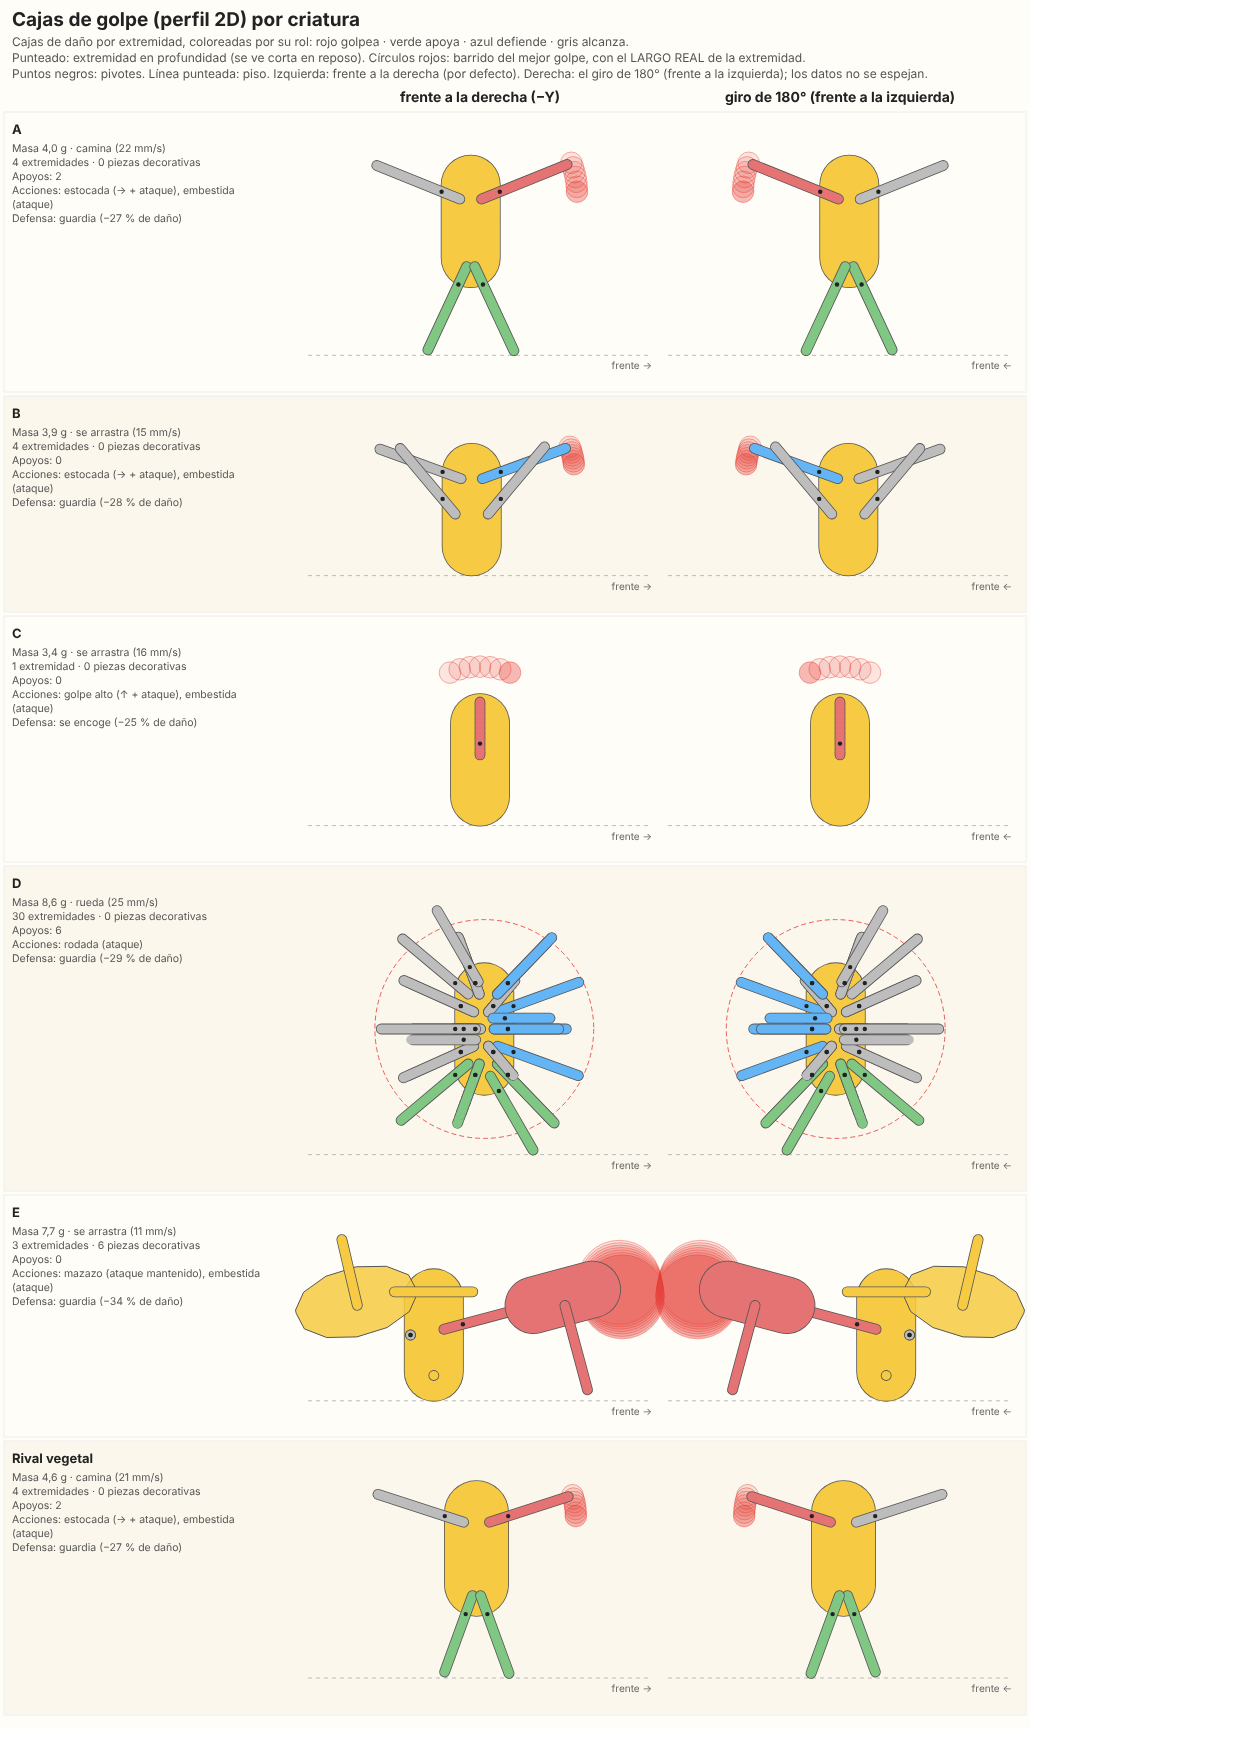
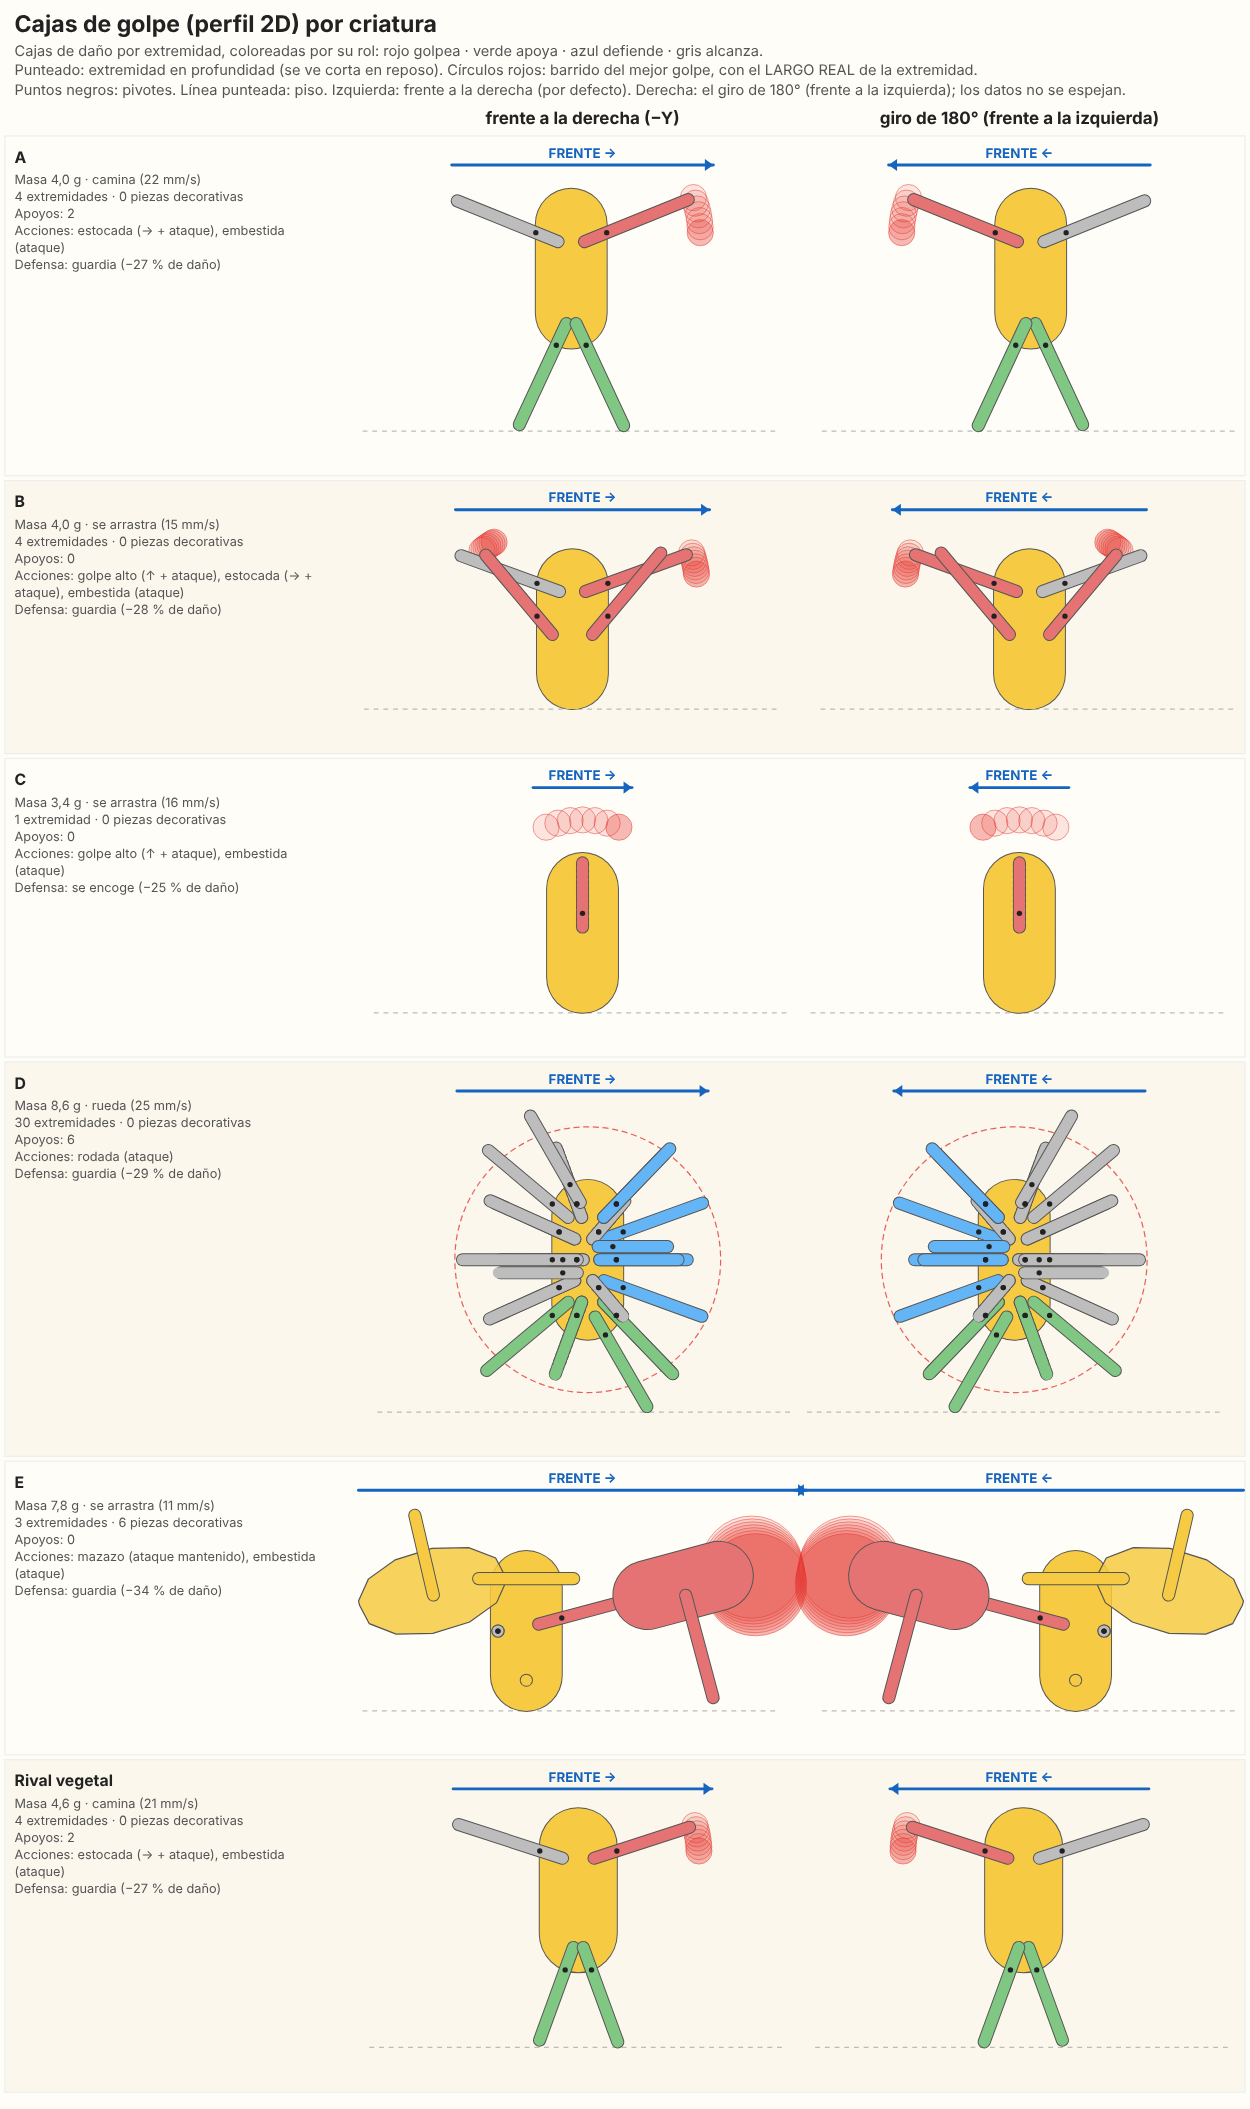
creature: (a) el apiñamiento del golpe solo cuenta a las vecinas del mismo tipo de golpe; tests de B, D y P; ESTADO.md
Claude-Session: https://claude.ai/code/session_01JQZZp3rqvYTJjdGanzx1ux

diff --git a/src/creature/analyze/limbs.ts b/src/creature/analyze/limbs.ts
@@ -3,17 +3,22 @@ import { add2, rot2, sub2 } from '../math/vec';
 import { toProfile } from '../math/basis';
 import { overlap2D } from '../math/shapes2d';
 import type { Caps, Limb, LimbDraft, Role, V2 } from '../types';
+import { strikeKindOf } from './actions';
 import type { Ctx } from './context';
 
 const ROLE_ORDER: Role[] = ['strike', 'support', 'push', 'defend'];
 
-/** Cuántas otras extremidades (no su hermana) tiene pegadas: pivote cerca y apuntando parecido. */
-function crowdOf(d: LimbDraft, all: LimbDraft[], ctx: Ctx): number {
+/**
+ * Cuántas otras extremidades (no su hermana) tiene pegadas: pivote cerca y apuntando parecido. Con `sameKind`, solo cuentan las que
+ * darían el mismo tipo de golpe (palitos que apuntan a distinto lado no se estorban al golpear).
+ */
+function crowdOf(d: LimbDraft, all: LimbDraft[], ctx: Ctx, sameKind?: (o: LimbDraft) => boolean): number {
   const { crowdRadius, crowdAngleDeg } = ctx.cfg.mobility;
   const axis = norm(sub(d.tip, d.pivot));
   let n = 0;
   for (const o of all) {
     if (o === d || o.id === d.pairedWith) continue;
+    if (sameKind && !sameKind(o)) continue;
     if (dist(o.pivot, d.pivot) > crowdRadius) continue;
     const c = clamp(dot(axis, norm(sub(o.tip, o.pivot))), -1, 1);
     if (deg(Math.acos(c)) < crowdAngleDeg) n++;
@@ -30,6 +35,17 @@ export function completeLimbs(ctx: Ctx, drafts: LimbDraft[]): Limb[] {
   const g = cfg.locomotion.gravity;
   const comX = ctx.mass.comProfile[0];
 
+  // Tipo de golpe de cada extremidad por su dirección (sin mirar la capacidad): para que el apiñamiento solo cuente a las del mismo tipo.
+  const kindOf = new Map<LimbDraft, ReturnType<typeof strikeKindOf>>();
+  for (const d of drafts) {
+    const v = sub(d.tip, d.pivot);
+    const l3 = Math.max(len(v), 1e-9);
+    const x = dot(v, basis.f);
+    const y = dot(v, basis.u);
+    const l2 = Math.hypot(x, y);
+    kindOf.set(d, strikeKindOf({ tag: d.tag, length: l3, angleDeg: deg(Math.atan2(y, x)), inDepth: l2 / l3 < cfg.profile.inDepthMaxRatio, dy: y }, cfg));
+  }
+
   return drafts.map((d) => {
     const root = ctx.pieces.get(d.rootPieceId);
     const r = root && root.shape.kind === 'capsule' ? root.shape.radius : st.refRadius;
@@ -45,12 +61,13 @@ export function completeLimbs(ctx: Ctx, drafts: LimbDraft[]): Limb[] {
     const tip2 = toProfile(basis, d.tip);
     const q = d.anchorQuality;
     const crowdFactor = 1 / (1 + crowdOf(d, drafts, ctx));
+    const strikeCrowdFactor = 1 / (1 + crowdOf(d, drafts, ctx, (o) => kindOf.get(o) === kindOf.get(d)));
 
     // ── capacidades ──
     const absA = Math.abs(angleDeg);
     const dirFactor = inDepth ? cap.inDepthStrikeFactor : absA <= cap.strikeFrontDeg ? 1 : absA <= cap.strikeArcDeg ? cap.strikeArcFactor : cap.strikeBackFactor;
     const bias = inDepth ? 1 : 1 + cap.anthropoBias * Math.sin(rad(angleDeg));
-    const strike = clamp(dirFactor * Math.min(1, len3 / cap.strikeRefLen) * q * crowdFactor * bias, 0, 1);
+    const strike = clamp(dirFactor * Math.min(1, len3 / cap.strikeRefLen) * q * strikeCrowdFactor * bias, 0, 1);
     const down = clamp(-y / len3, 0, 1);
     const grounded = tip2[1] - r <= ctx.floorY + cap.groundTolRatio * ctx.height;
     const support = down >= cap.supportMinDown && grounded ? clamp(down * q, 0, 1) : 0;

diff --git a/src/creature/analyze/actions.ts b/src/creature/analyze/actions.ts
@@ -23,18 +23,22 @@ const SLOT: Record<Kind, Input> = {
  * inclinación, igual que las normales: estocada si es una vara larga, jab si no.
  */
 export function classifyStrike(l: Limb, cfg = CREATURE_CONFIG): Kind | null {
-  const a = cfg.actions;
   if (l.caps.strike < cfg.capabilities.minRole) return null;
+  return strikeKindOf({ tag: l.tag, length: l.length, angleDeg: l.profile.angleDeg, inDepth: l.profile.inDepth, dy: l.profile.tip[1] - l.profile.pivot[1] }, cfg);
+}
+
+/** Tipo de golpe por dirección, forma y largo (sin mirar si la capacidad alcanza). null = apunta hacia atrás. */
+export function strikeKindOf(l: { tag: Limb['tag']; length: number; angleDeg: number; inDepth: boolean; dy: number }, cfg = CREATURE_CONFIG): Kind | null {
+  const a = cfg.actions;
   if (l.tag === 'maza') return 'mazazo';
-  const y = l.profile.tip[1] - l.profile.pivot[1];
-  if (l.profile.inDepth) {
-    if (y > a.verticalRatio * l.length) return 'golpe-alto';
-    if (y < -a.verticalRatio * l.length) return 'barrida';
+  if (l.inDepth) {
+    if (l.dy > a.verticalRatio * l.length) return 'golpe-alto';
+    if (l.dy < -a.verticalRatio * l.length) return 'barrida';
     return l.length >= a.longRodMin ? 'estocada' : 'jab';
   }
-  const abs = Math.abs(l.profile.angleDeg);
+  const abs = Math.abs(l.angleDeg);
   if (abs <= cfg.capabilities.strikeFrontDeg) return l.length >= a.longRodMin ? 'estocada' : 'jab';
-  if (abs <= cfg.capabilities.strikeArcDeg) return l.profile.angleDeg > 0 ? 'golpe-alto' : 'barrida';
+  if (abs <= cfg.capabilities.strikeArcDeg) return l.angleDeg > 0 ? 'golpe-alto' : 'barrida';
   return null;
 }
 

diff --git a/docs/creature/ESTADO.md b/docs/creature/ESTADO.md
@@ -1,6 +1,6 @@
 # Estado del intérprete de criaturas
 
-Se actualiza en cada tanda. Última actualización: perfiles de palito de la selva y chupetín; estocada en profundidad. Rama `claude/creature-interpreter`.
+Se actualiza en cada tanda. Última actualización: perfiles de golosinas, estocada en profundidad y apiñamiento del golpe por tipo. Rama `claude/creature-interpreter`.
 
 ## Decisiones vigentes
 - Contrato estable: `CreatureSnapshot` (JSON puro). El intérprete (`src/creature/`) no importa three.js ni el juego; solo `resolve/` toca three.js.
@@ -35,15 +35,16 @@ Se actualiza en cada tanda. Última actualización: perfiles de palito de la sel
 
 ## Densidades (kg/m³, `config.ts`)
 chizito 250 (× 0,85 por grumoso) · palito 550 · palito-selva 550 · chupetín (palito) 550 · caramelo del chupetín 1300 · escarbadientes 600 · papita 350 · nacho 500 · aceituna 1000 · ketchup 0 · desconocido 400.
-Palito de la selva: vara, medida de la malla real (Ø ≈ 7,6 mm × 4,35 cm, ≈ 1,1 g; el chat 3D declara 2,3 g con 1,25 g/cm³: no coincide, se usó la densidad pedida).
+Palito de la selva: vara, medida de la malla real (Ø ≈ 7,6 mm × 4,35 cm, ≈ 1,1 g a 550 kg/m³). El chat 3D declara 2,3 g (1,25 g/cm³): NO coinciden; queda 1,1 g y está PENDIENTE de definir con el chat de mecánicas.
 Chupetín: el resolver lo entrega como DOS piezas, el palito (Ø 3,4 mm × ≈ 5,3 cm) y `<id>~caramelo` (bola Ø ≈ 21 mm, soldada a la cola como un chizito ensartado): da una MAZA (≈ 6,6 g). `ROD_STRUCTURE` en `profiles.ts`.
 
 ## Golpes en profundidad
 - Una vara en profundidad con largo ≥ `longRodMin` y poca inclinación vertical es ESTOCADA (antes jab): mismo criterio que las normales (`classifyStrike`).
 - Criatura de demostración `P` (7 palitos clavados desde la cara, todos en profundidad; `scripts/make-fixtures.mjs`, no entra en las hojas ni en las pruebas de las seis): capacidad de golpe 0,09–0,17 (< `minRole` 0,3) → solo embestida.
-- PENDIENTE de decisión: que el apiñamiento solo penalice a las vecinas del mismo tipo de golpe. Probado, NO commiteado: D sigue rodando (freno 0,1, sin golpes; su capacidad máxima sube de 0,171 a 0,243, aún < 0,3), P pasa a barrida + golpe alto, pero B cambia (suma golpe alto y su estocada duplica el daño, 4,6 → 9,1).
+- El apiñamiento del GOLPE solo cuenta a las vecinas que darían el mismo tipo de golpe (`strikeKindOf`, `analyze/limbs.ts`); el de la movilidad (bloqueo físico) sigue contando a todas. Efecto medido: D sigue rodando (freno 0,1, sin golpes; capacidad máxima 0,171 → 0,243, tope de prueba 0,27, mínimo 0,3), A, C, E y el vegetal no cambian, B suma un golpe alto y su estocada pasa de daño 4,6 a 9,1 (efecto buscado), P pasa a barrida + golpe alto + embestida.
 
 ## Pendientes por chat
 - HECHO por el chat 3D (merge 14e1663): frente por defecto −Y / arriba +X en el cargador, `MAX_STROKES` aplicado en el juego, `src/config.ts` importa `MAX_PIECES` de `limits.ts` (una sola fuente del 40).
 - Un test falla si `src/config.ts` deja de importar `MAX_PIECES` o pone un número distinto.
+- Chat de mecánicas: definir la masa del palito de la selva (1,1 g con la densidad del palito vs 2,3 g declarados por el chat 3D).
 - Este chat: tanda 9 cerrada, espera OK. Las fixtures se regeneraron tras el merge (el chizito de la rama 3D cambió su porosidad: los puntos de entrada se movieron < 0,1 mm).
